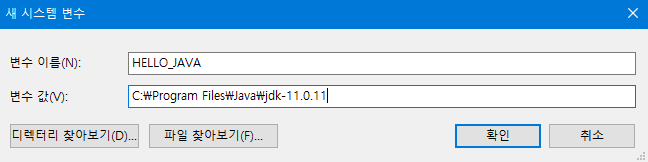
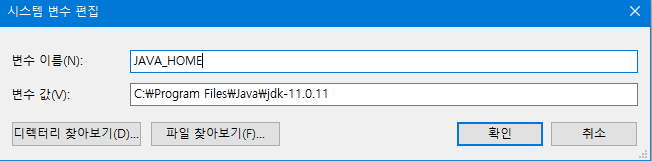
- Java 설치 포스팅 (수정)
- 본문에 어울리지 않는 글귀 수정
- 이미지 수정

diff --git a/_posts/2021-07-06-startJava.md b/_posts/2021-07-06-startJava.md
@@ -65,7 +65,7 @@ comments : true
 <img src ="/post/JavaDownload/path3.png">
 <img src ="/post/JavaDownload/path4.png">
 
-* ※ 변수 이름 : HELLO_JAVA<br>
+* ※ 변수 이름 : JAVA_HOME (대문자 필수)<br>
 * ※ 변수 값 : JDK가 설치 된 ``` 기본 경로 ``` 를 말합니다.<br>
 * ※ JDK가 설치된 폴더로 들어가 경로를 복사하면 쉽게 처리 할 수 있습니다.<br>
 
@@ -74,17 +74,24 @@ comments : true
 <img src ="/post/JavaDownload/path5.png">
 
 
-(3) 이제 마지막 으로 ```시스템 변수(S)``` 안에 있는 ``` 변수 목록에 Path``` 를 더블클릭 해 줍니다<br>
-그리고 새로 만들기를 클릭하여 방금 생성한 변수 이름 : HELLO_JAVA 를 붙여 줄 것 입니다<br>
 
+(3) 이제 마지막 으로 ```시스템 변수(S)``` 안에 있는 ``` 변수 목록에 Path``` 를 더블클릭 해 줍니다<br>
+그리고 ``` 새로 만들기``` 를 클릭하여 방금 생성한 변수 이름 : ```JAVA_HOME``` 을 붙여 줄 것 입니다<br>
+
+※ Path 클릭<br>
 <img src ="/post/JavaDownload/path6.png">
+
+※ 새로 만들기 에서 ``` %JAVA_HOME%\bin ``` 입력
 <img src ="/post/JavaDownload/path7.png">
 
-(4) ```%HELLO_JAVA%\bin;``` 을 넣어 주고 확인을 누르면 이제부터 컴퓨터에 자바를 실행할 수 있는<br>
+(4) ```%JAVA_HOME%\bin``` 을 넣어 주고 확인을 누르면 이제부터 컴퓨터에 자바를 실행할 수 있는<br>
 환경을 구축하였습니다 이제 테스트를 통해 정말 Java 가 잘 설치 됐는지 확인 해 보겠습니다<br>
 
+(5) 테스트 안될 때 : 환경 변수 편집 --> 새로 만들기 --> ```C:\Program Files\Java\jdk-11.0.11\bin```<br>
+    입력하고 가장 위로 이동시켜보기.<br>
 
-## Java 설치 테스트 
+
+## Java 실행 확인 테스트 
 
 테스트 하는 방법은 간단합니다, 윈도우 + R을 눌러서 cmd를 입력 후 엔터를 쳐 보면<br>
 다음과 같은 화면이 나오는데 이곳에서 테스트를 진행할 수 있습니다<br>
